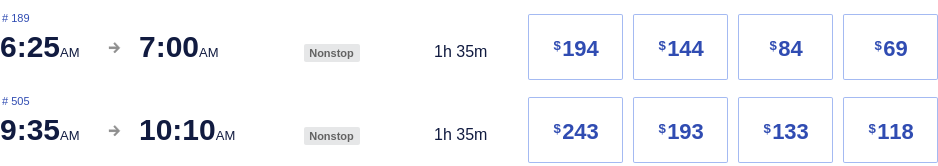
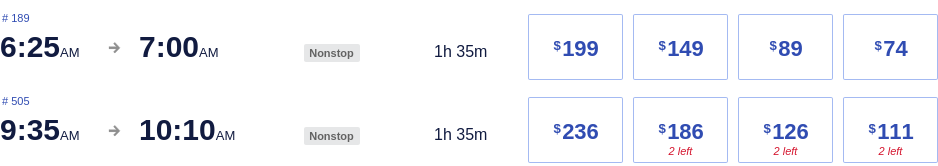
Latest scraping states: Fri Aug 18 10:52:29 UTC 2023

diff --git a/scrapes/states/southwest-01-05.md b/scrapes/states/southwest-01-05.md
@@ -8,7 +8,7 @@
     
     1h 35m
     
-    69 Dollars$69
+    74 Dollars$74
     
 * \# 505 Opens flyout.
     
@@ -20,7 +20,9 @@
     
     1h 35m
     
-    118 Dollars$118
+    111 Dollars$111
+    
+    2 left
     
 
 ![](southwest-01-05.png)

diff --git a/scrapes/states/southwest-01-04.md b/scrapes/states/southwest-01-04.md
@@ -8,7 +8,7 @@
     
     1h 30m
     
-    64 Dollars$64
+    74 Dollars$74
     
 * \# 2467 Opens flyout.
     
@@ -20,7 +20,7 @@
     
     1h 25m
     
-    64 Dollars$64
+    74 Dollars$74
     
 
 ![](southwest-01-04.png)
